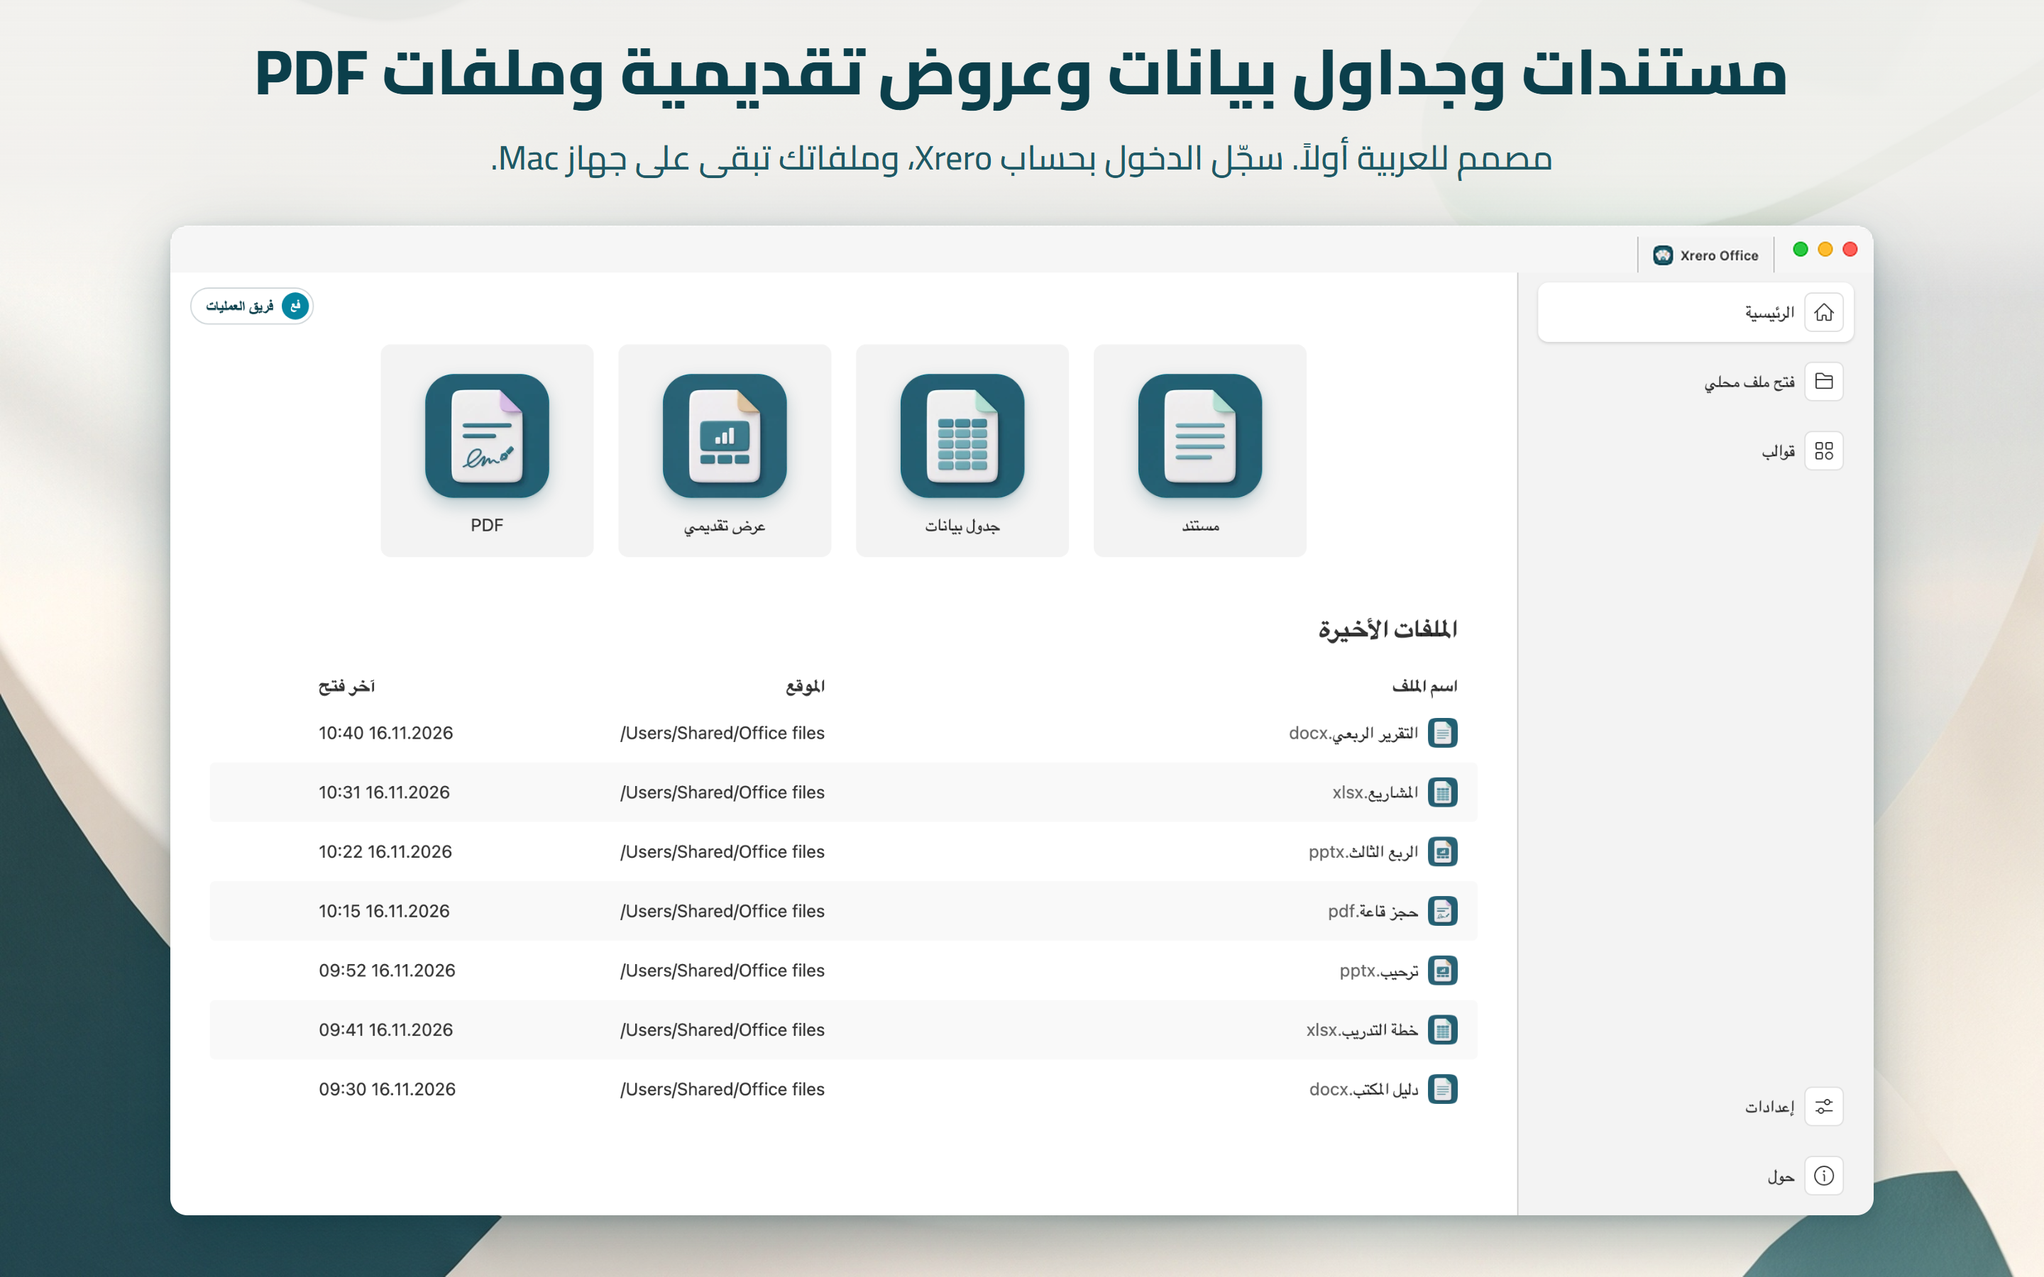
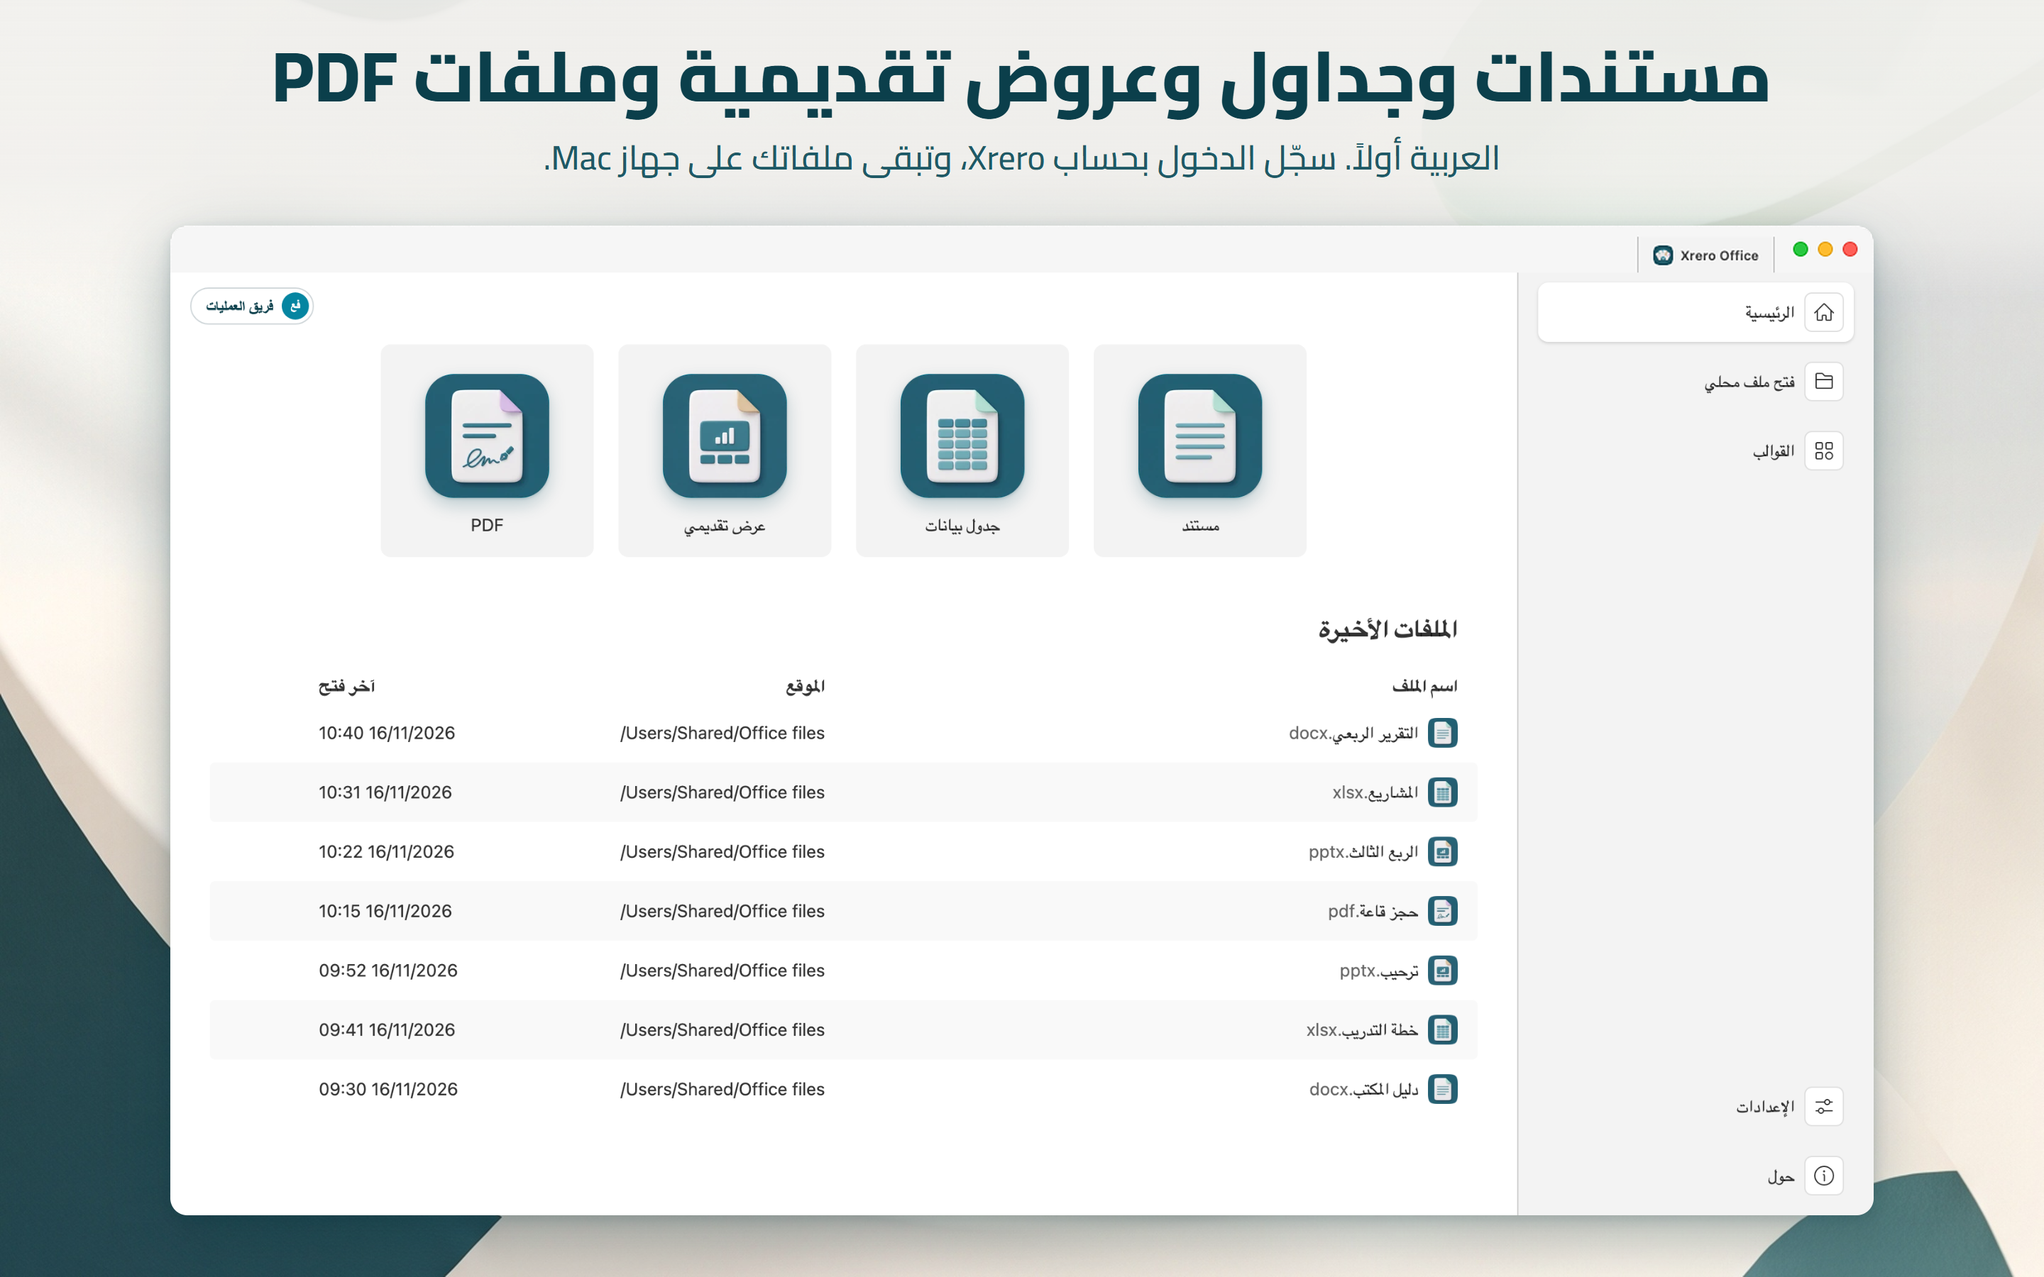
Mac App Store pictures (2880x1800, same names) from build-mac test_only run 43902663815 (run 38, all checks green)
Round 4: the document picture with real Title / Heading 1 paragraphs in the demo's own styles ("Heading 1" whole in
the style gallery, 140 % zoom), the caret proven in all six editor pictures, the PDF form saved before the pictures
(no unsaved tab marker) with a level pen circle and the sticky note in the margin, Arabic "تعليق نصي" / "انقر لإضافة
ملاحظات" / "القوالب" / "الإعدادات", Recent files dates in each language, captions at one size with varied lines; the
start page last in the listing order. NOTES.md records round 4 and the runs 35-38.

diff --git a/mas/store/NOTES.md b/mas/store/NOTES.md
@@ -1,22 +1,26 @@
-# Mac App Store pictures - notes (16 Nov 2026)
+# Mac App Store pictures - notes (16 Nov 2026, round 4)
 
 Five pictures per language, in the listing's order (`mas/mas_metadata.py` SHOTS):
 
 | # | en-US | ar-SA | What it shows |
 |---|-------|-------|---------------|
-| 1 | mac_en_editor.png | mac_ar_editor.png | the document editor, an Arabic-led report with an English part, caret in the Arabic summary |
-| 2 | mac_en_start.png | mac_ar_start.png | the start page, the signed-in account (a team), seven demo files under Recent files |
-| 3 | mac_en_sheet.png | mac_ar_sheet.png | the spreadsheet editor: E5 selected (`=SUM(B5:D5)` in the formula bar), the file's column chart |
-| 4 | mac_en_slides.png | mac_ar_slides.png | the presentation editor: caret after the title of the bilingual title slide, the four slides in the side panel |
-| 5 | mac_en_pdf.png | mac_ar_pdf.png | the PDF editor: Comment tab, a form filled in the app, a highlight, a pen circle and a sticky note made in the app |
+| 1 | mac_en_editor.png | mac_ar_editor.png | the document editor, an Arabic-led report with an English part (Title / Heading 1 styles), caret in the Arabic summary |
+| 2 | mac_en_sheet.png | mac_ar_sheet.png | the spreadsheet editor: E5 selected (`=SUM(B5:D5)` in the formula bar), the file's column chart |
+| 3 | mac_en_slides.png | mac_ar_slides.png | the presentation editor: caret after the title of the bilingual title slide, the four slides in the side panel |
+| 4 | mac_en_pdf.png | mac_ar_pdf.png | the PDF editor: Comment tab, a form filled and saved in the app, a highlight, a pen circle and a sticky note made in the app |
+| 5 | mac_en_start.png | mac_ar_start.png | the start page, the signed-in account (a team), seven demo files under Recent files |
 
 The document picture is first: it shows the app's point (Arabic and English, right to left) in the picture that
-search results show. The start page is second and carries the account line next to the account pill.
+search results show. Round 4: the start page is last (as the second picture - a file list and four cards - it was the
+set's weakest, before any editor); its line still carries the account, beside the account pill. Same order in both
+languages (`mas_metadata.py` SHOTS; the store text itself is unchanged).
 
 All ten are real captures of the App Store variant (sandboxed test copy, ad hoc) on the CI Mac:
-`build-mac.yml` with `test_only=true` runs `mas/store_capture.py`. The pictures here come from run 34
-(43838154183, every capture check green; round 3 - runs 32 and 33 each failed one new check, below). They are
-composed with
+`build-mac.yml` with `test_only=true` runs `mas/store_capture.py`. The pictures here come from run 38 (43902663815),
+every capture check green. Round 4: run 35 (43849152369) was green too, but looking at its pictures found two faults
+no check caught - the English style gallery said "Heading" (its "1" cut off), and three of the six editor pictures
+with a caret (Arabic document, both PDFs) had none - so round 4b added the checks below and ran again (runs 36
+and 37 failed the new caret checks; see Caret). They are composed with
 `v20/mac/store_new_icons` (`prep.py` + `compose.js`, Cairo, the same background and window place for all ten:
 the window 2400 px wide, 83 % of the picture). English pictures come from the app in en-US, Arabic pictures from
 the app in ar-SA. Demo files only (`mas/store_demo.py`): neutral UAE content, counts and dates, no money amounts,
@@ -28,11 +32,24 @@ How each picture is made (and what is not done in the app):
 - **Window**: one size for all ten, 1376 x 800 pt. `store_capture.py` measures, in the English and Arabic
   spreadsheet and presentation editors, the narrowest window at which no ribbon group folds into "More"
   (`ribbon-fit.json`), and `mas/hidpi.swift` gives the CI display a 1600 x 1200 mode for it.
+- **Document** (round 4): the report uses its own styles, as a Word user's document would - the title is a Title
+  paragraph, the second line a Subtitle, the section headings ("ملخص الربع الثالث", "أبرز النتائج", "Highlights")
+  Heading 1 - and every style of the file is in the demo's faces and colours (Helvetica Neue / Geeza Pro, ink and
+  teal). Round 3's file kept the python-docx template's Word 2010 styles: the style gallery showed Heading 1-3 in the
+  old Office theme blues and "No spacing" in a serif fallback (the theme's Cambria), while the page's headings were
+  plain paragraphs with direct formatting. `store_demo.py` also replaces the template's theme ("Office Theme",
+  Calibri / Cambria) and its app.xml, and `check_docx` asserts that none of it is left. Round 4b: the editor's style
+  gallery draws each style's name at the style's own size in a 104 px tile and cuts what does not fit (sdkjs
+  `stylespainter.js`), so a 16 pt Heading 1 read "Heading". The report is now set 6/7 of its round-4 sizes (title
+  24 pt, Heading 1 13.5 pt, summary and list 12 pt, English 10 pt) and shown at the editor's own 140 % zoom: the page
+  looks as large as at 120 % before, and the gallery shows "Heading 1" whole. The capture scrolls the title near the
+  top of the view and checks that the whole text block is in view at 140 %.
 - **Start page**: seven demo files are opened from `/Users/Shared/Office files` (the Recent files' location
   column shows that folder, not the CI checkout), and their times are set to working hours (09:30-10:40) in the
   app's own recent list. Round 3: four rows left the lower third of the window empty, so three small files a user
   of the same team would have opened earlier come first (`store_extra_*`: an office guide, a training plan, a
-  welcome slide - real files, opened in the app; only their names, kinds and times are in the picture).
+  welcome slide - real files, opened in the app; only their names, kinds and times are in the picture). Round 4:
+  the dates are in the page's language (see below: en-US "11/16/2026 10:40 AM", Arabic "16/11/2026 10:40").
 - **Sheet**: the table's totals are SUM formulas. E5 is selected the way the name box does it (`asc_findCell`).
   The chart is the file's own chart part (16 x 9.4 cm, so it fills the columns beside the table), drawn by the
   editor; its legend is a list on the right (one row paired the colours with the wrong quarters when read right to
@@ -46,8 +63,16 @@ How each picture is made (and what is not done in the app):
 - **PDF**: the Comment tab is clicked, the footer line is selected with the mouse and highlighted with the Highlight
   button, a circle is drawn around the date field with the red pen, and a sticky note is added with right click >
   Add comment. Then the form is filled the way a user does it: Tab to each field, type, and Enter to tick the
-  boxes. After the pictures the form is saved (Cmd+S), read back from the file and opened again in the app: the
-  fields, the ticks and the three marks are all kept (run 34, both languages). Round 3: the highlight stopped one
+  boxes. Round 4: the form is saved (Cmd+S) BEFORE the pictures, so the tab shows no unsaved marker (round 3's
+  pictures had "*Booking.pdf" / "•حجز قاعة.pdf"); saving takes the caret out of the field, so the Notes field is then
+  clicked once at the end of its line, as a user does to go on typing (no change; the capture checks the document is
+  still saved at the moment of the pictures). After the pictures the saved file is read back and opened again in
+  the app: the fields, the ticks and the three marks are all kept (run 38 (43902663815), both languages). Round 4 also gave
+  the marks room: the date row is 26 pt under the first row and the second column starts at 319 pt
+  (`store_demo.py`), the pen circle is a level ellipse 20 pt clear of the date field's sides and 19 pt above and
+  below it (round 3's was tilted and tight - the field's corners poked out and its end nearly touched "Attendees"),
+  and the sticky note sits in the page margin beside the highlighted line it comments on, not between the date
+  label and the circle. The capture checks both against the annotations the app stored. Round 3: the highlight stopped one
   letter short, before the line's full stop. The mouse drag now ends past the line (3 pt in English, 15 pt in
   Arabic), the capture reads back what the selection holds and selects again (further past, then from the other
   end) while the full stop is missing, and it checks that the highlight's rectangle covers the line. In English
@@ -60,8 +85,20 @@ How each picture is made (and what is not done in the app):
   field's text by twice its border width (sdkjs `CTextField.RecalculateContentRect`), so typed text sits 4 pt in
   from the frame, which is drawn on the page just outside the field. "For office use" is at the foot of the page,
   so the window's bottom edge runs through blank page, not under that heading.
-- **Caret**: for the window and Retina captures of pictures 1, 4 and 5, the editor's caret blink timer is paused
-  with its caret shown, then started again. This shows the editor's own caret at its own place, not an added one.
+- **Caret**: for the window and Retina captures of the document, presentation and PDF pictures, the editor's caret
+  is kept shown, then its own blink starts again. This shows the editor's own caret at its own place, not an added
+  one. Round 4b: in run 35 three of the six Retina pictures had no caret although the capture reported it "held",
+  and nothing checked the picture itself. The cause: the capture's JavaScript runs in the top page, so its
+  clearInterval used the top window's timers, while the editor's blink timer belongs to the editor frame's window
+  (timer ids are per window) - the hold never stopped the blink, in any round, and earlier pictures had their caret
+  by chance. Now the frame's own timers are used, the blink function is swapped for one that keeps the caret shown
+  while held (a hide asked for meanwhile is recorded, not done), the caret is put again at its own place for the
+  current zoom, scroll and scale (the editor's `UpdateTargetNoAttack`), and each capture waits until the frame has
+  painted. Every Retina capture with a caret is proven: the same page captured again with the caret hidden must
+  differ inside the caret's box (`<lang>-<name>-page2x-nocaret.png` in the run's evidence), right after the picture
+  the editor must still want that caret (no selection; the PDF's Notes field still in edit), and the caret must sit
+  in the Arabic summary paragraph (document) or the Notes field (PDF). Runs 36 and 37 failed these new checks (two,
+  then one picture) before the timer cause was found.
 
 ## Real-UI issues found while making them
 
@@ -107,6 +144,16 @@ Fixed in the Mac app (`scripts/patch_bundle.py` / `web/xr-*.js`, Mac bundle only
   and on the editors' account chip. Two Arabic initials are drawn joined, so some pairs read as a word (round 3:
   "فم" = "mouth"); the pictures' team name was chosen so the pair is not a word. Real users' pairs can still form
   one (for example "مع"); not changed in the app.
+- **Arabic labels** (round 4): the PDF editor's Comment tab button "Text Comment" (it puts a typed text box on the
+  page) said "تعليق للنص" ("a comment for the text"); now "تعليق نصي", the words of its own tooltip ("إدراج تعليق
+  نصي"). The presentation editor's notes pane said "اضغط لإضافة ملاحظات" ("press", phone or keyboard wording); a Mac
+  is clicked: "انقر لإضافة ملاحظات" (`patch_bundle.py` AR_LABELS; the capture checks both).
+- **Arabic start page side menu** (round 4): "قوالب" and "إعدادات" had no article next to "الرئيسية"; now "القوالب"
+  and "الإعدادات" (`web/xr-home.js`, checked).
+- **Recent files dates** (round 4): every language showed "16.11.2026 10:40" (dd.mm.yyyy, 24 hours) - a European
+  form in the US picture, and dots in the Arabic one, whose PDF picture writes "24/11/2026". The date is now in the
+  page's language: en-US "11/16/2026 10:40 AM", Arabic "16/11/2026 10:40" with Western digits (`web/xr-home.js`;
+  the capture checks the form and that the times are still the ones set).
 - **Arabic spreadsheet formula bar**: a formula took the right-to-left direction of the interface, so
   `=SUM(B5:D5)` read `SUM(B5:D5)=`. Each line now takes its direction from its own text
   (`unicode-bidi: plaintext`) and stays right aligned (`XR-FBIDI`).
@@ -131,10 +178,13 @@ Not fixed (engine behaviour; the capture works around it or avoids it):
 - **Presentation status bar language**: Arabic slide text written as `lang="ar-AE"` is reported as "العربية –
   المملكة العربية السعودية". The document editor reports the same kind of text as "...الإمارات العربية المتحدة".
   The Arabic slides picture shows the Saudi Arabia wording.
-- **Caret on the dark title slide** (picture 4): the caret is held shown (checked), but the editor draws it dark,
-  so it does not stand out on the ink-coloured slide (run 33 caught it light once; run 34, the pictures, dark). The
-  title's selection frame and the ribbon (its font, 54, Bold) show the edit.
-- **Caret in the Arabic Notes field** (picture 5, ar): the field is right aligned, and the engine draws the caret
+- **Caret on the dark title slide** (presentation picture): round 3 saw the caret dark on the ink-coloured slide in
+  run 34 and light in run 33 (with the blink not really held, see Caret); in run 38 it is light in both languages,
+  and round 4b checks that it stands out from the slide under it in the picture.
+- **Style gallery names** (round 4b): the document editor's gallery cuts a style's name that does not fit its tile at
+  the style's own size (a 16 pt or larger Heading 1 reads "Heading"). Real documents with large headings show the
+  same in the app (and on Windows); not changed in the app. The demo report's Heading 1 is 13.5 pt (above).
+- **Caret in the Arabic Notes field** (PDF picture, ar): the field is right aligned, and the engine draws the caret
   at the right edge of its Arabic line after typing, not at the line's left end.
 - **Spreadsheet chart with a reversed category axis** (right-to-left chart, `orientation maxMin`): the editor
   turned the first category label on its side and dropped the others. The Arabic chart's categories therefore
@@ -164,10 +214,22 @@ Store text: the description in `mas_metadata.py` now says "plus PDF viewing, for
 31. Not sent to App Store Connect from here (`mas-meta` is a separate, owner-run step). The round-3 review also
 asked to rename the description's headings "REAL ARABIC SUPPORT" / "دعم حقيقي للعربية" and "A FULL EDITOR, NOT A
 VIEWER" / "محرر كامل وليس مجرد عارض" (comparison wording the captions no longer use). That is the owner's text and it
-does not contradict the pictures, so it is left for the owner.
+does not contradict the pictures, so it is left for the owner. Round 4's review repeated it and added that the
+description and promotional text still say "free" / "مجاني" (a price word the captions no longer use, Apple 2.3.7)
+and name the engine (an AGPL licence credit): also the owner's text, unchanged here; suggested to the owner.
 
-Captions (round 3, `store_new_icons/compose.js`; round 2 kept as `compose_2026-11-16e.js`): "بالصيغ" instead of
+Captions round 4 (`store_new_icons/compose.js`; round 3 kept as `compose_2026-11-16f.js`): one size for every
+headline and every line under it - a line that does not fit is an error in compose.js, not set smaller (round 3's
+Arabic start headline was shrunk to 87 % of the others; now "مستندات وجداول وعروض تقديمية وملفات PDF"). "صيغة" (file
+format) is no longer under "الصيغ" (formulas): the sheet line names SUM and the chart, and the format is named only in
+the document line ("في ملف docx") and the presentation line ("بتنسيق pptx"). "Arabic and English" is in one headline
+only (the presentation headline is now "Presentations with shapes and charts" / "عروض تقديمية بأشكال ورسوم بيانية"),
+and each line says what its picture shows (headings in the document, SUM totals and the column chart, bilingual title
+slides). The start line is natural Arabic: "العربية أولاً. سجّل الدخول بحساب Xrero، وتبقى ملفاتك على جهاز Mac." (it
+began with the bare participle "مصمم", and put the noun before the verb).
+
+Captions round 3 (`store_new_icons/compose.js`; round 2 kept as `compose_2026-11-16e.js`): "بالصيغ" instead of
 "مع الصيغ" (a word-for-word "with"), "بصيغة docx / xlsx / pptx" instead of "كملفات" (and in the document line the
 document is what is saved, not its paragraphs: "ويُحفظ المستند بصيغة docx"), the PDF headline "املأ نماذج PDF وعلّق
 عليها" and its line ending "وأضف الملاحظات" (so "أضف تعليقات" is not said twice). No headline is wider than 2200 px:
-the Arabic start headline ran the window's full width, so it is set a little smaller rather than reworded.
+the Arabic start headline ran the window's full width, so it was set a little smaller (reworded in round 4, above).
